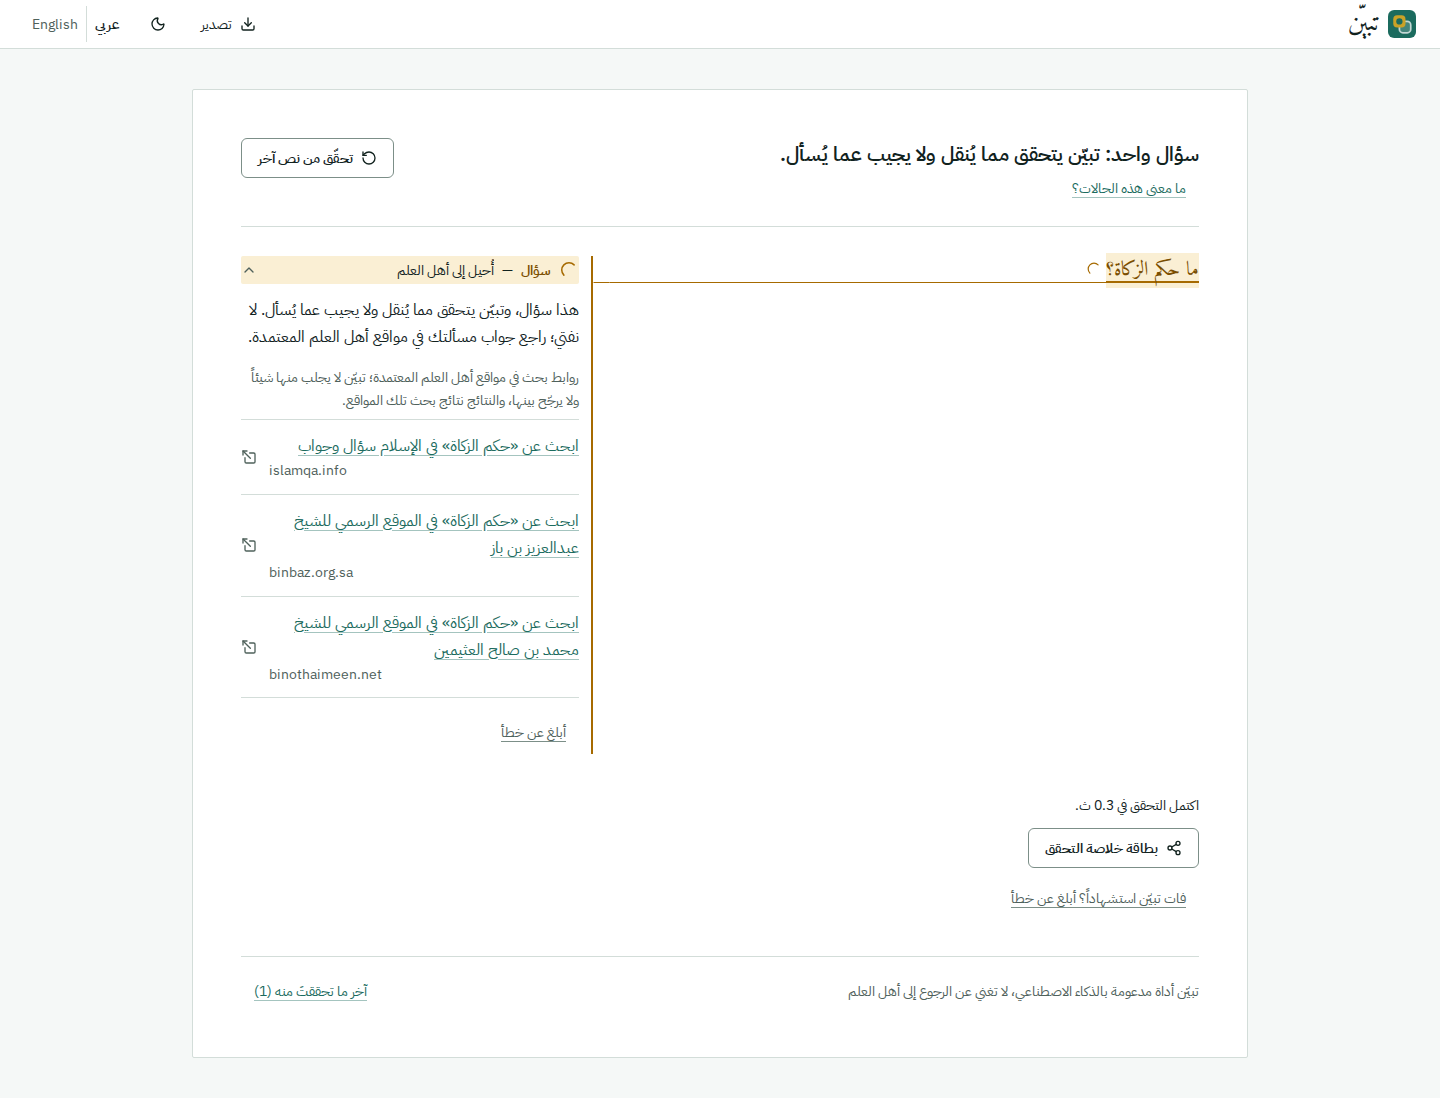
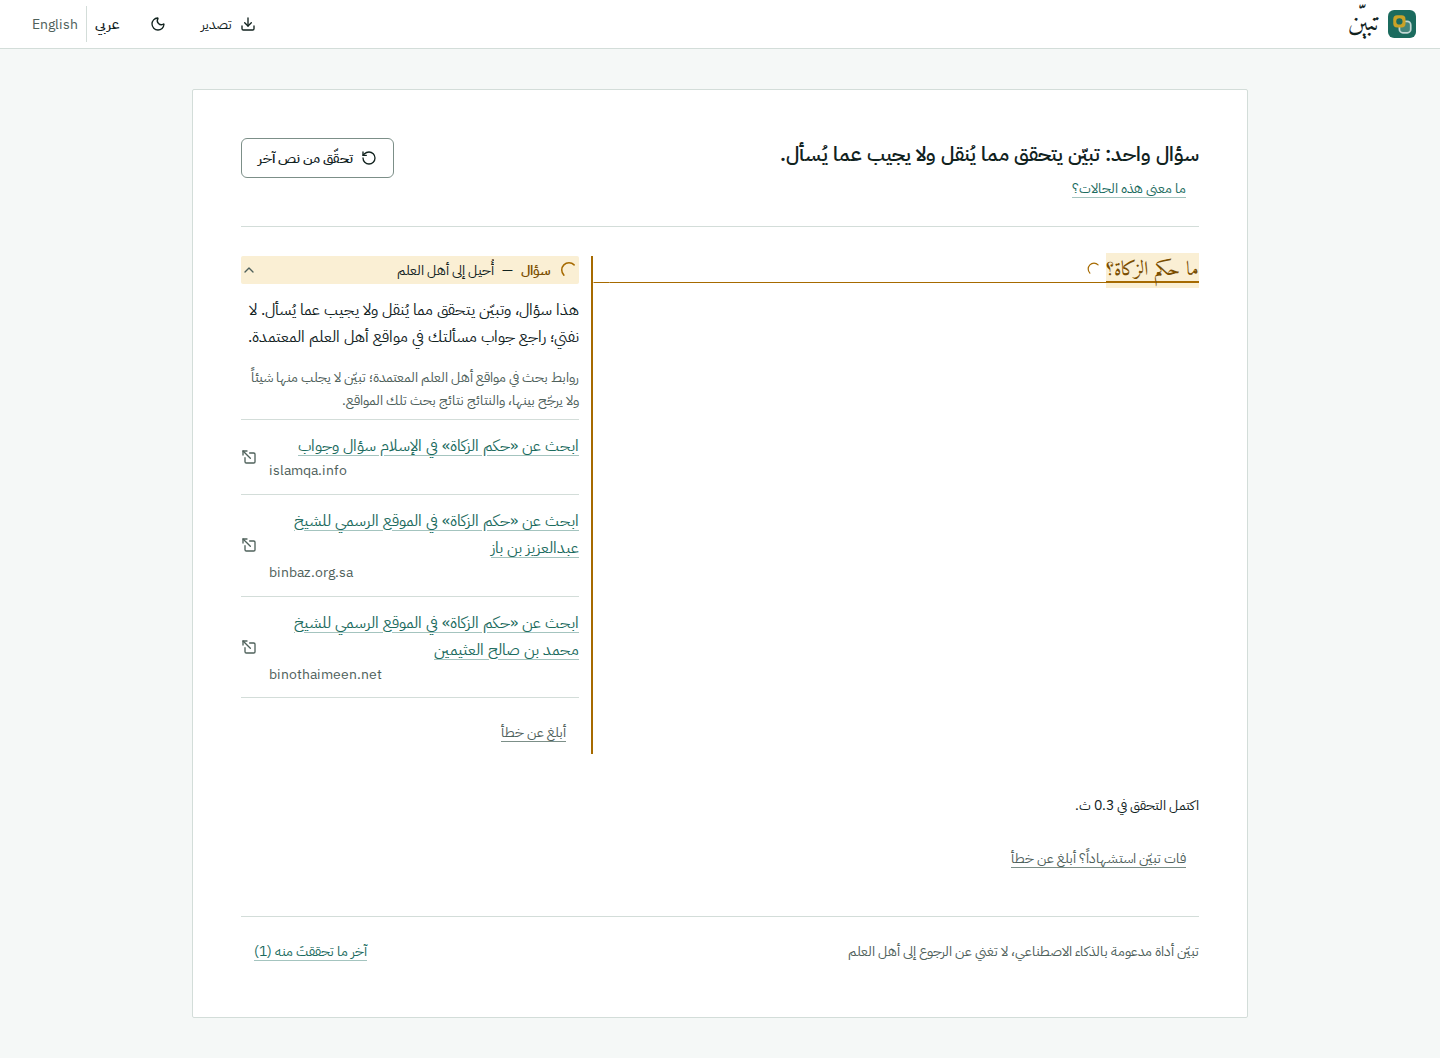
fix(questions): a report that holds only questions offers no summary card
The summary card and the shared text are for citations; with none there is nothing to share.
A report with citations and questions keeps the button.

Claude-Session: https://claude.ai/code/session_01WkLzYHrQZVwHgWeRF86dxo

diff --git a/frontend/src/components/report/report-view.tsx b/frontend/src/components/report/report-view.tsx
@@ -593,7 +593,9 @@ export function ReportView({
             ) : null}
           </p>
           <div className="flex flex-col gap-3 md:flex-row">
-            {features.share_card ? (
+            {/* The summary card and the shared text are for citations: a report that holds only
+                questions has nothing to share. */}
+            {features.share_card && tally.citations > 0 ? (
               <Button
                 type="button"
                 variant="outline"
